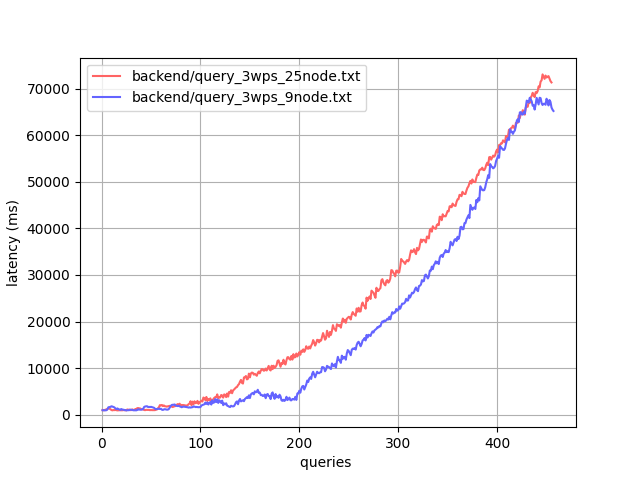
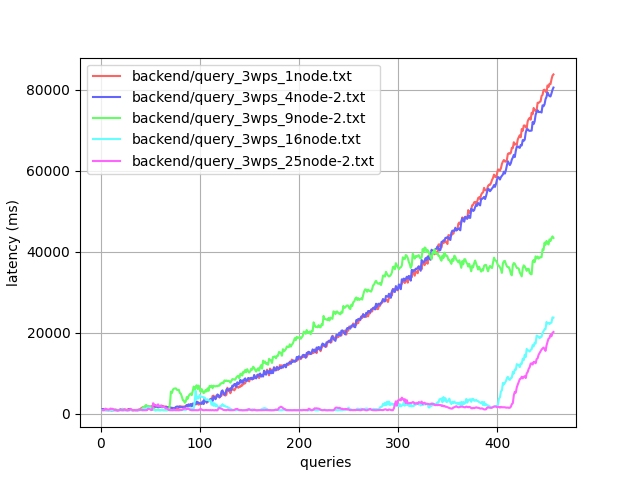
modify parse_data.py

diff --git a/frontend/src/Containers/ChatRoom.js b/frontend/src/Containers/ChatRoom.js
@@ -3,7 +3,7 @@ import { useState } from "react";
 
 import { Table, Input, InputNumber, Popconfirm, Form, Typography } from 'antd';
 import EditTable from "../Components/Table"
-const client = new WebSocket('ws://140.112.30.45:8080') //140.112.30.36
+const client = new WebSocket('ws://140.112.30.43:8080') //140.112.30.36
 
 const ChatRoom = ({ me, displayStatus }) => {
   /*const temp = [1, 2, 3, 4, 5, 6, 7, 8, 9, 10]
@@ -76,53 +76,67 @@ const ChatRoom = ({ me, displayStatus }) => {
       }
     });
   }
+  const sendData = async (data) => {
+    console.log('send', data)
+    await client.send(JSON.stringify(data))
+  }
+  /*
+    test session start
+  */
   const sleep = (ms) => {
     return new Promise(resolve => setTimeout(resolve, ms));
   }
   const getRandomInt = () => {
     return Math.floor(Math.random() * 100000);
   }
-  const sendData = async (data) => {
-    console.log('send', data)
-    await client.send(JSON.stringify(data))
+  const getQueryData = () => {
+    const randomNum = getRandomInt()
+    return {type: "query", body: { "$expr": {"$and": [{ "$lt": [{ "$toDouble": "$id" }, randomNum + 10]}, {"$gt": [{ "$toDouble": "$id" }, randomNum] } ] } }}
   }
-  const testQuery = async() =>{
-    console.log('start testQuery')
-    for(let i = 1000; i >= 0; i--){
-      const randomNum = getRandomInt()
-      const data = {type: "query", body: { "$expr": {"$and": [{ "$lt": [{ "$toDouble": "$id" }, randomNum + 10]}, {"$gt": [{ "$toDouble": "$id" }, randomNum] } ] } }}
-      await client.send(JSON.stringify(data))
-      await sleep(i)
-      console.log(i, data)
-    }
-  }
-  const testWrite = async ()=>{
-    const modify = () => {
-      const newId = String(getRandomInt());
-      return {
-        type: "modify",
-        body: {
-          id: {
-            id: newId
-          },
-          change: {
-            id: newId,
-            gender: (getRandomInt() % 2 === 0)?"M":"F",
-          }
+  const getWriteData = () => {
+    const newId = String(getRandomInt());
+    return {
+      type: "modify",
+      body: {
+        id: {
+          id: newId
+        },
+        change: {
+          id: newId,
+          gender: (getRandomInt() % 2 === 0)?"M":"F",
         }
       }
     }
-    for(let i = 100000; i >= 0; i--){
-      let data = modify()
-      await client.send(JSON.stringify(data))
-      await sleep(300)
-      console.log(i, data)
+  }
+  
+  const mySendData = async (sleepNum, data) =>{
+    await client.send(JSON.stringify(data))
+    await sleep(sleepNum)
+    console.log(sleepNum, data)
+  }
+  const testIncreaseQuery = async() =>{
+    console.log('start Increase Query')
+    for(let i = 1000; i >= 0; i--){
+        await mySendData(i, getQueryData())
     }
   }
-  const testtest = () =>{
-    let data = [1, 2, 3, 4, 5, 6]
-    console.log(data.findIndex((item)=>(item === 4)))
+  const testIncreaseWrite = async () =>{
+    console.log('start Increase Write')
+    for(let i = 1000; i >= 0; i--){
+      await mySendData(i, getWriteData())
+    }
   }
+  const testConstantWrite = async ()=>{
+    console.log('start Constant Write')
+    while(true) await mySendData(300, getWriteData())
+  }
+  const testConstantQuery = async () =>{
+    console.log('start Constant Query')
+    while(true) await mySendData(500, getQueryData())
+  }
+  /*
+    test session end
+  */
   return (
     <> <div className="App-title">
       <h1>{me}'s </h1> </div>
@@ -152,9 +166,10 @@ const ChatRoom = ({ me, displayStatus }) => {
           setMessageInput("");
         }}
       ></Input.Search>
-      <button onClick={testWrite}>test constant Write</button>
-      <button onClick={testQuery}>test query</button>
-      <button onClick={testtest}>test</button>
+      <button onClick={testConstantQuery}>test constant Query</button>
+      <button onClick={testConstantWrite}>test constant Write</button>
+      <button onClick={testIncreaseQuery}>test increase query</button>
+      <button onClick={testIncreaseWrite}>test increase write</button>
       <EditTable data={data} setData={modifyTableData} />
     </>);
 };

diff --git a/parse_data.py b/parse_data.py
@@ -1,6 +1,6 @@
 search_type = 'query' # 'query' or 'modify'
-idxs = range(1, 458, 1) # (start, end, step)
-file_paths = ['backend/query_3wps_25node.txt', 'backend/query_3wps_9node.txt']
+idxs = range(2, 458, 1) # (start, end, step)
+file_paths = ['backend/query_3wps_1node.txt', 'backend/query_3wps_4node-2.txt', 'backend/query_3wps_9node-2.txt', 'backend/query_3wps_16node.txt', 'backend/query_3wps_25node-2.txt']
 out_file_name = 'out.png'
 import sys
 import matplotlib.pyplot as plt
@@ -29,7 +29,7 @@ def cal_time(lines):
         
 def draw_plt(datas):
     #list(map(, x_axis))
-    colors = [(255/255,100/255,100/255), (100/255,100/255,255/255)]
+    colors = [(255/255,100/255,100/255), (100/255,100/255,255/255), (100/255,255/255,100/255), (100/255,255/255,255/255), (255/255,100/255,255/255)]
     plt.xlabel("queries ")
     plt.ylabel("latency (ms)")
     plt.grid(True)
@@ -37,7 +37,7 @@ def draw_plt(datas):
         x_axis, y_axis = zip(*data)
         plt.plot(x_axis, y_axis, color=colors[i % len(colors)], label=file_paths[i])
     plt.legend()
-    #plt.show()
+    plt.show()
     plt.savefig(out_file_name)
 
 def main():
